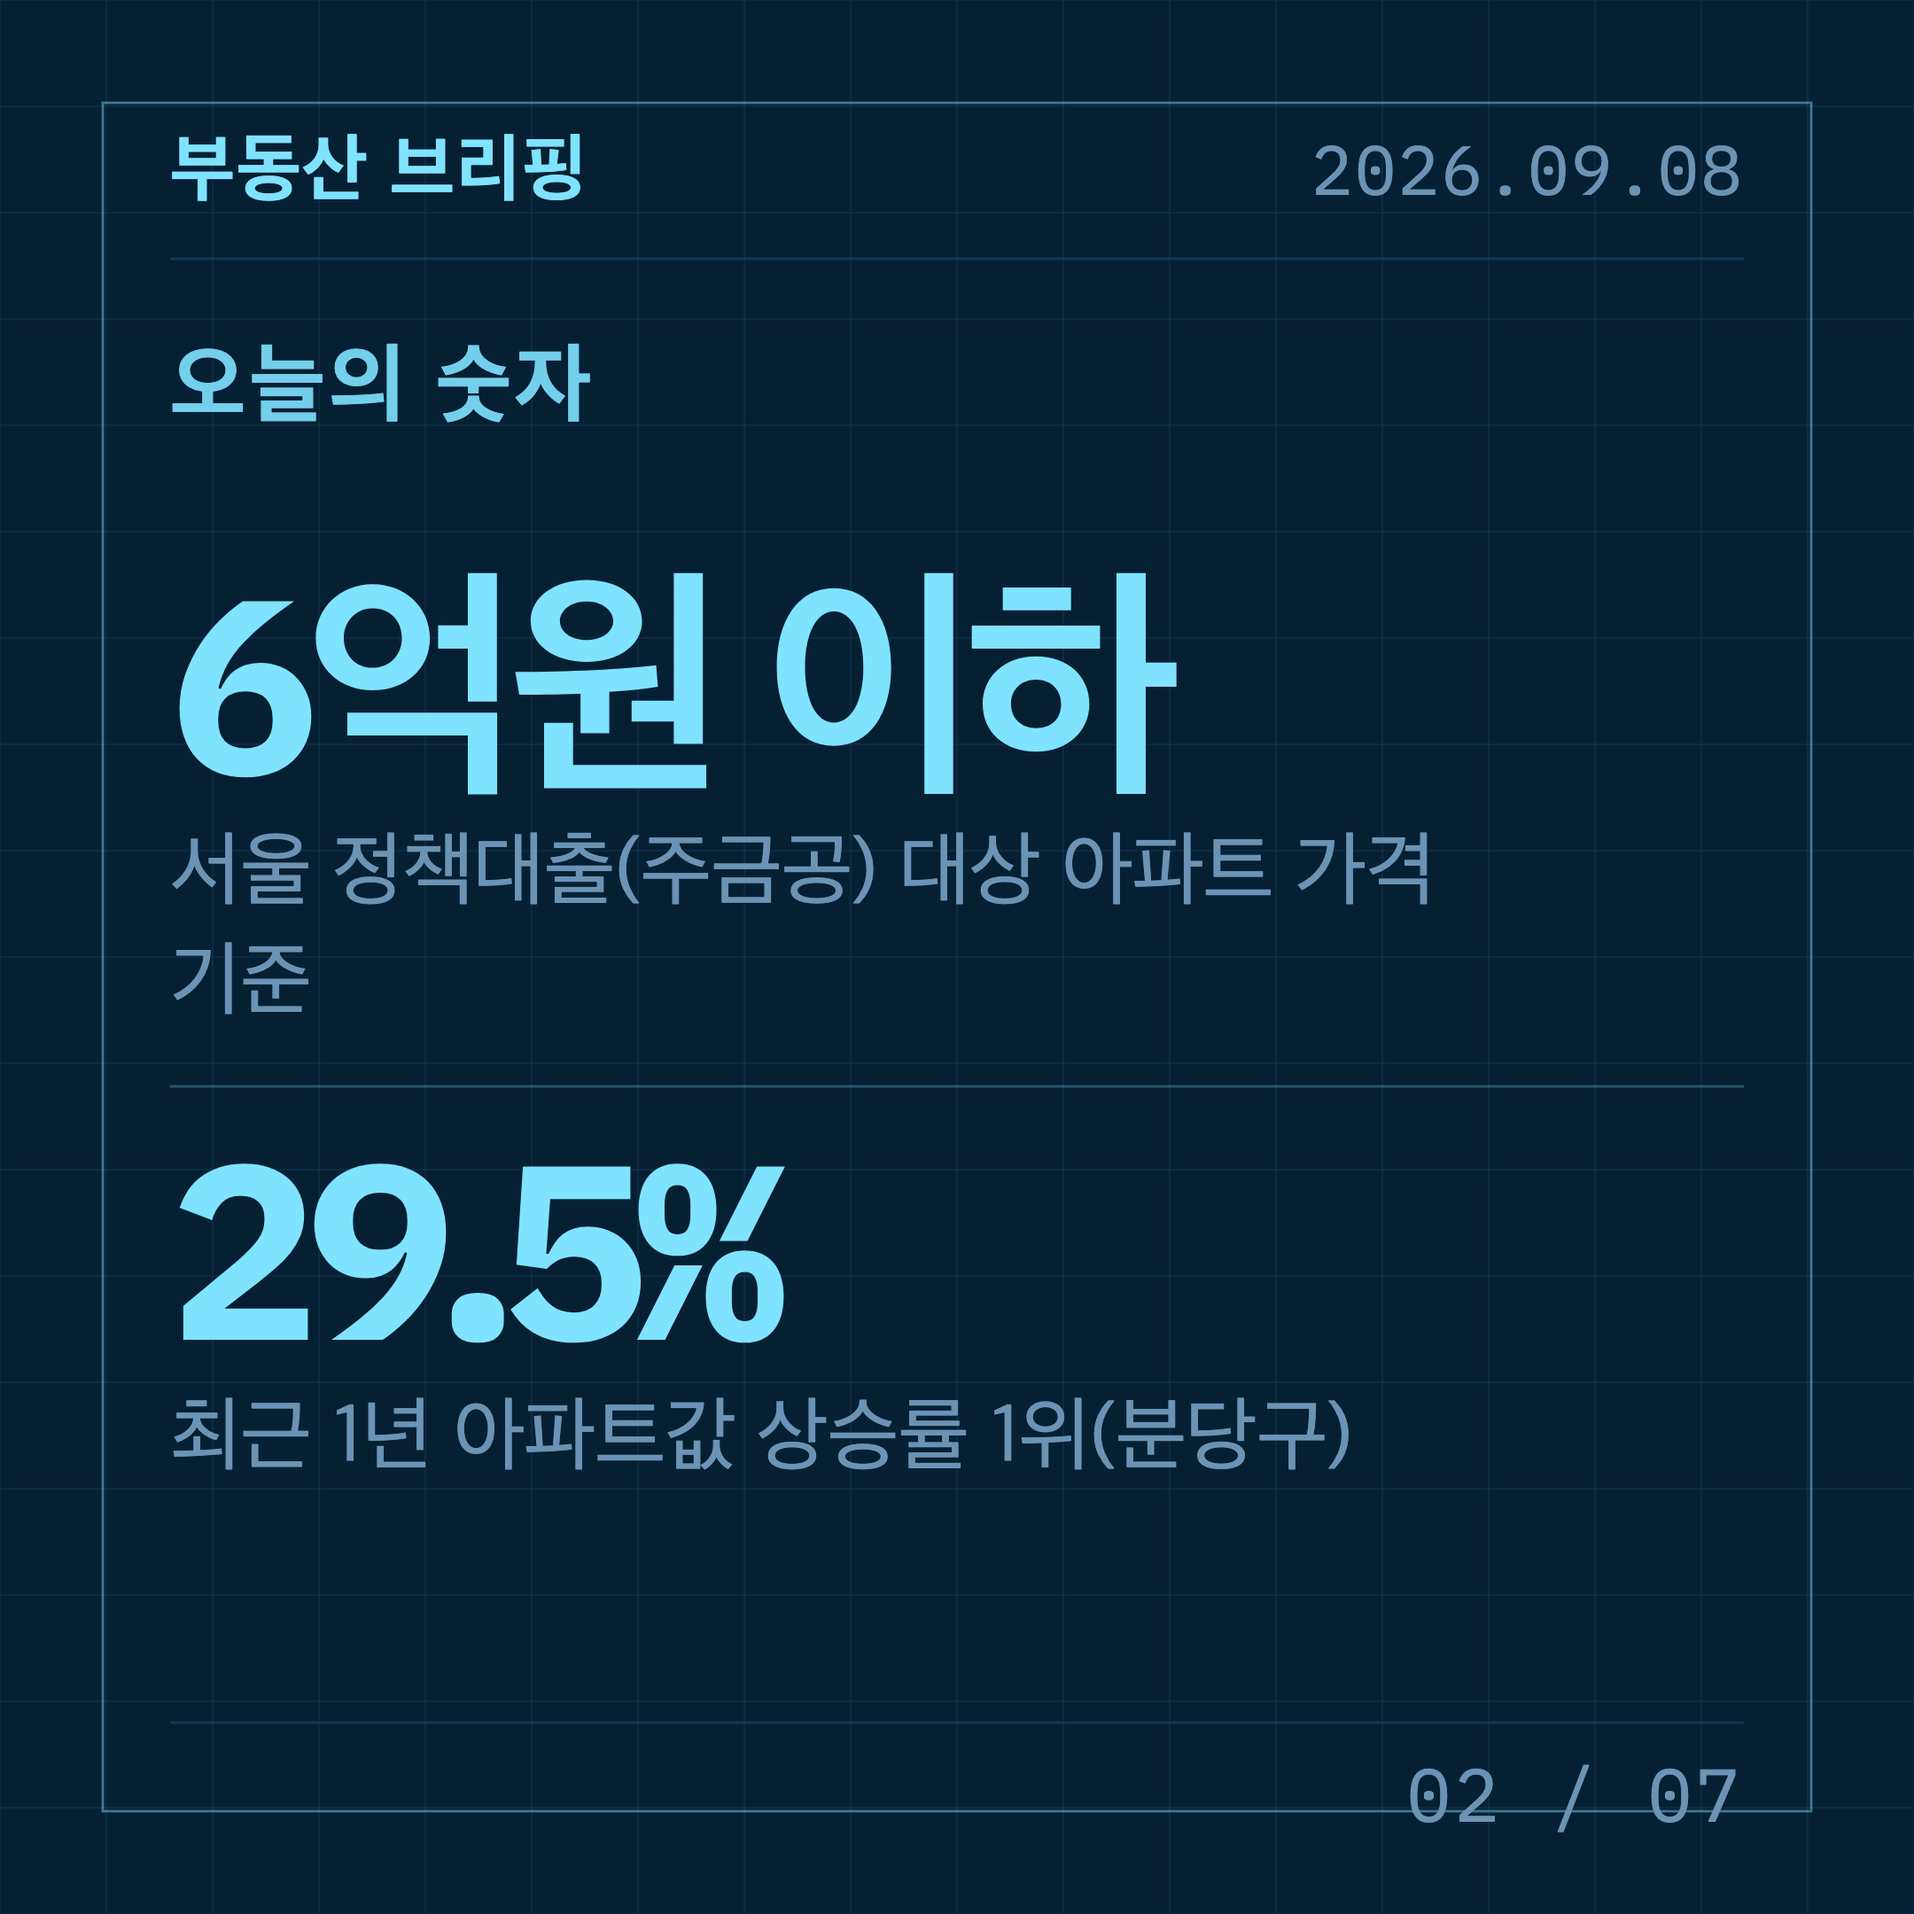
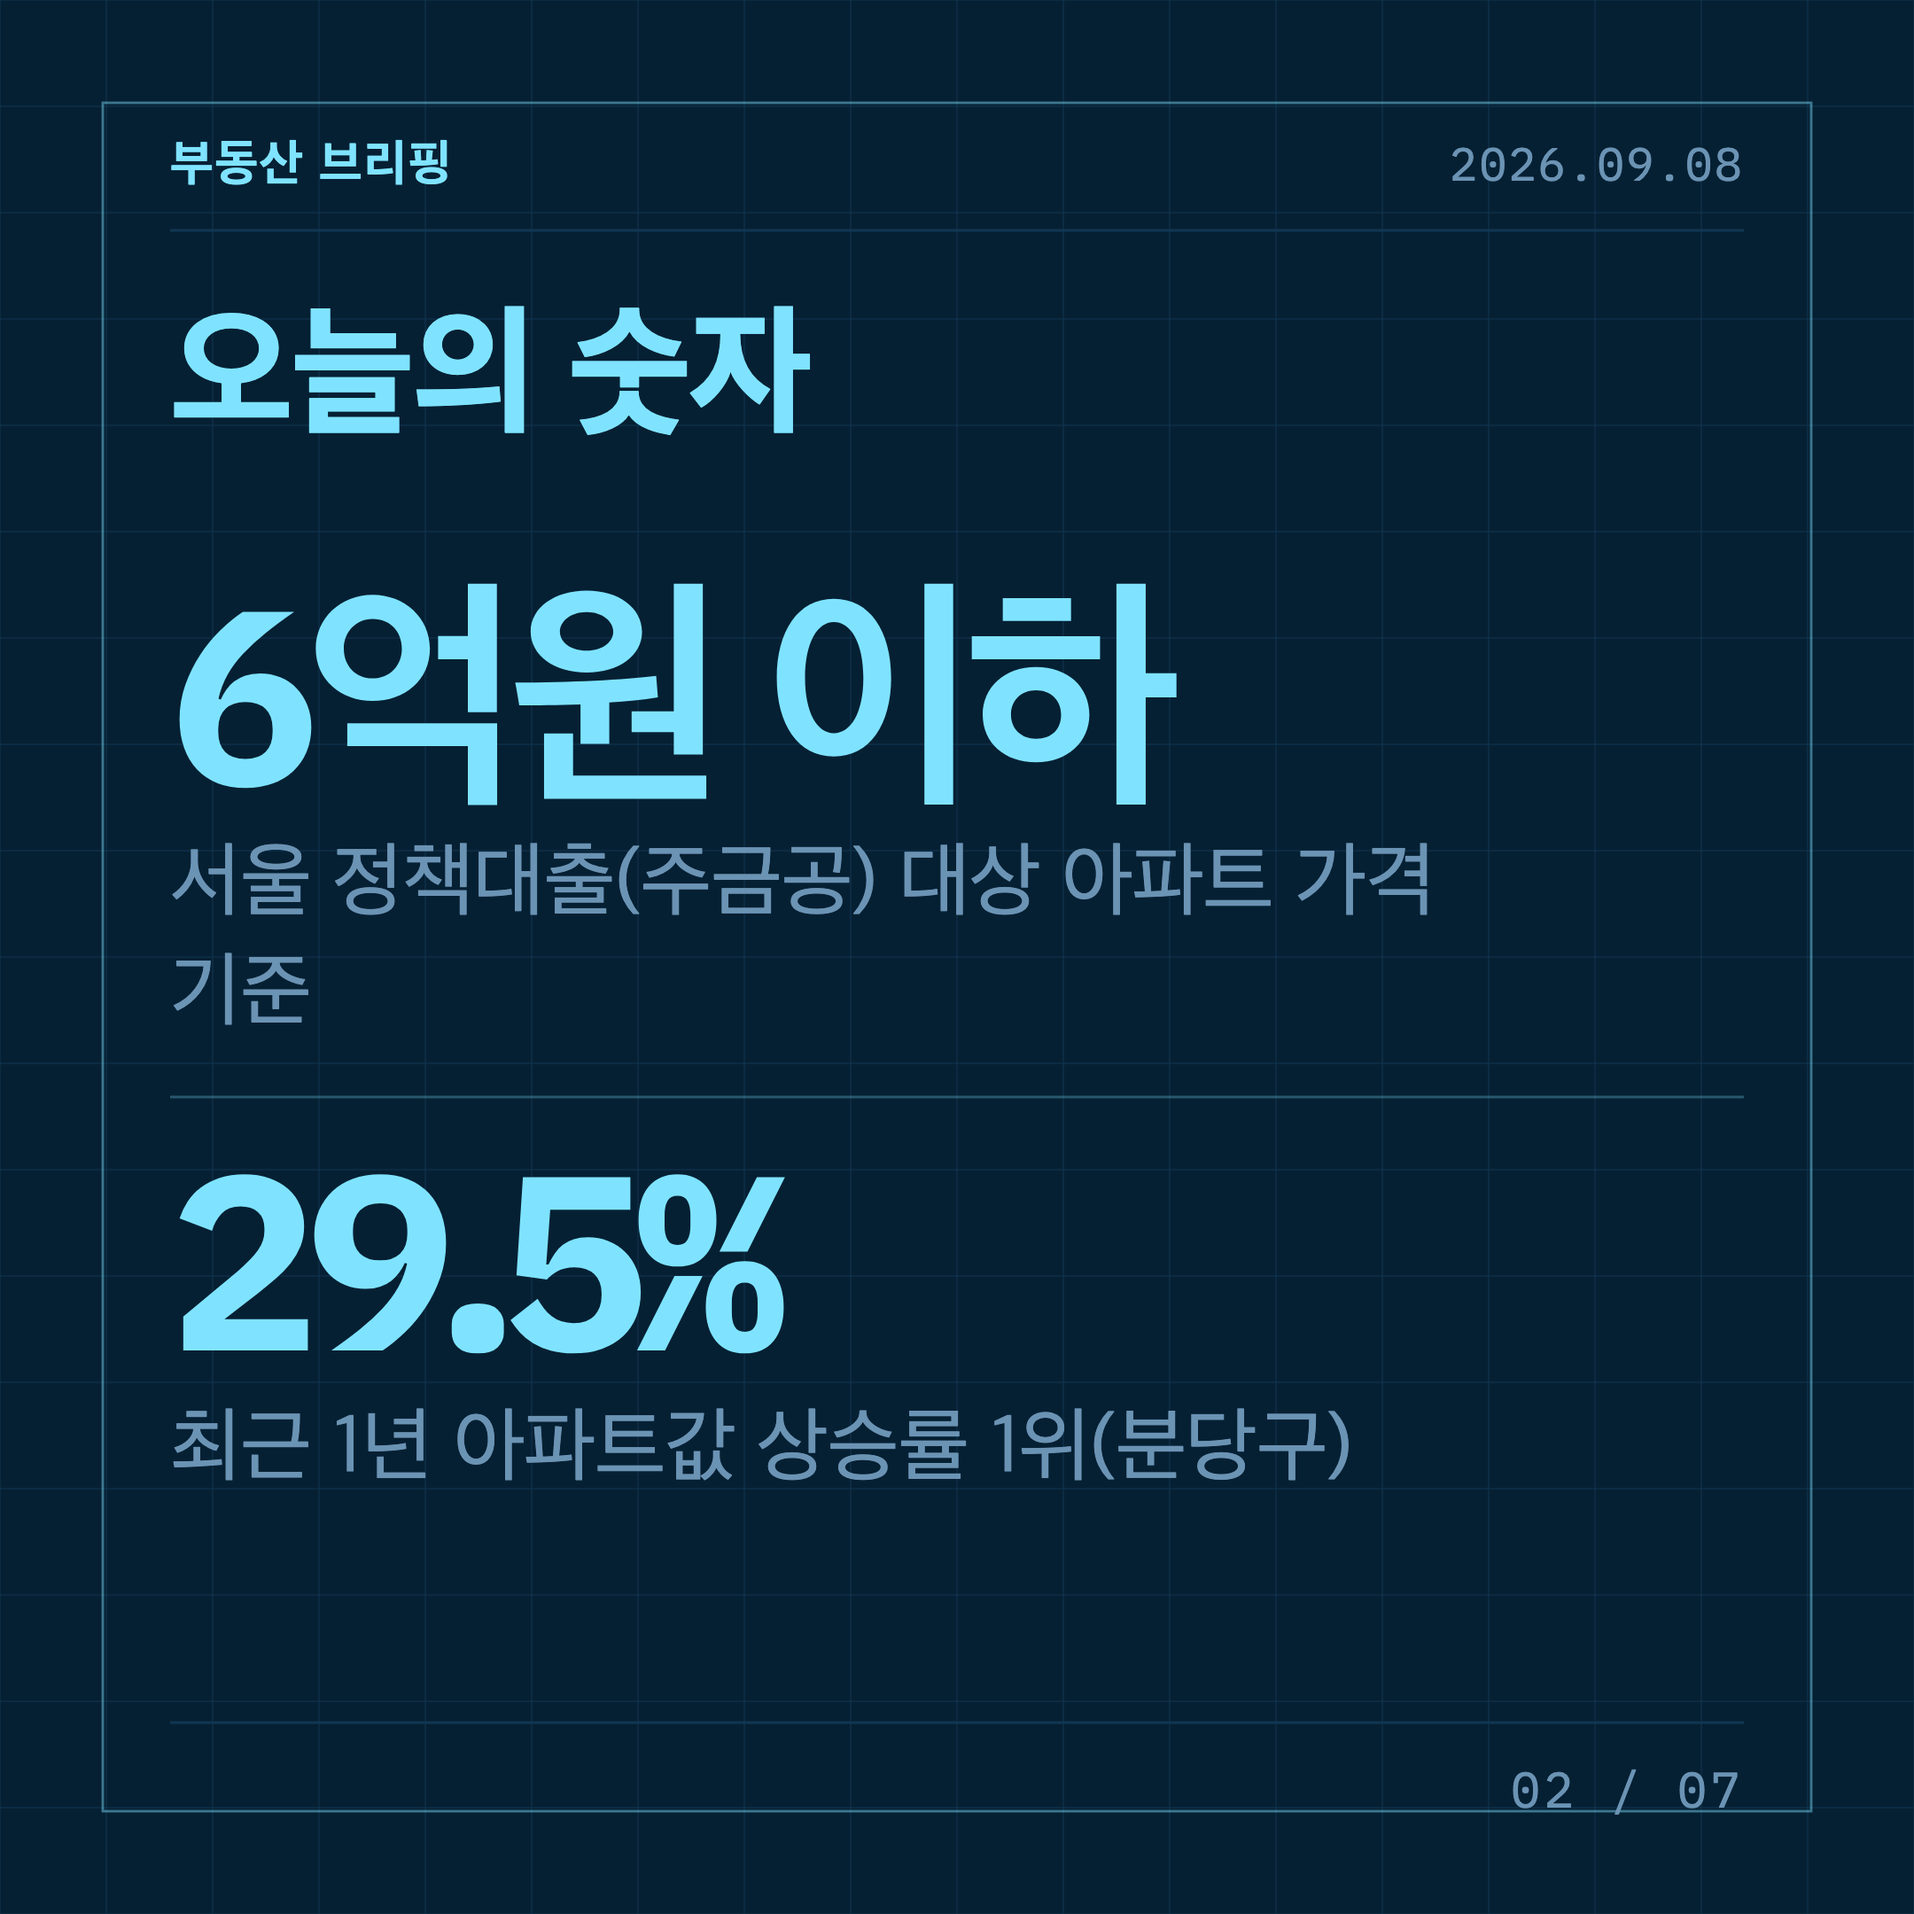
계측 표식은 원래대로 작게, 읽는 글자는 더 크게
사용자가 화면에 상자를 쳐서 지정한 대로입니다.

되돌린 것 (계측 표식은 작아야 표식이다)
* 머리글 42→28, 날짜 39→26, 쪽번호 42→28, 사진 출처 33→22
* 함께 내렸던 구분선(146→130)과 글 시작 자리(194→172)도 되돌렸습니다

키운 것 (실제로 읽는 글자)
* 소제목 '오늘의 숫자'·'내일 볼 것' 49→80 — 표지 제목과 같은 무게로
* 표지 부제 36→44, 이슈 한 줄 요약 39→46
* 목록 항목 50/46/41/35 → 58/54/48/42

**줄 수를 안 늘리면 글씨를 키워도 소용이 없었습니다.** 표지 부제를 44 로 올렸는데
그대로였습니다 — `_sentence_fit` 이 두 줄 안에 넣으려고 도로 36 으로 줄였기
때문입니다. 최대 줄 수를 3 으로 늘리고 나서야 커졌습니다.

시험 233개와 pyflakes 는 깨끗합니다.

diff --git a/rebrief/images.py b/rebrief/images.py
@@ -1345,9 +1345,9 @@ def _card_frame(face: tuple, n: int, total: int, *, date: str = "", channel: str
         # 사진 출처 한 줄. **'본문과 무관' 을 빼지 마세요.** 은마아파트 기사 옆에 아무
         # 아파트 사진이 붙으면 읽는 사람은 그게 은마인 줄 압니다.
         if art.get("credit"):
-            p.append(f'<rect x="0" y="{band-62:.0f}" width="{w}" height="62" '
+            p.append(f'<rect x="0" y="{band-46:.0f}" width="{w}" height="46" '
                      f'fill="#000000" opacity="0.42"/>')
-            p.append(f'<text x="{w-96}" y="{band-20:.0f}" font-size="33" text-anchor="end" '
+            p.append(f'<text x="{w-96}" y="{band-16:.0f}" font-size="22" text-anchor="end" '
                      f'fill="#ffffff" opacity="0.9">{esc(art["credit"])}</text>')
         bottom = h - 100
         meta = []
@@ -1356,24 +1356,24 @@ def _card_frame(face: tuple, n: int, total: int, *, date: str = "", channel: str
         if date:
             meta.append(esc(date.replace("-", ".")))
         if meta:
-            p.append(f'<text x="96" y="{h-52}" font-size="38" fill="{dim}">'
+            p.append(f'<text x="96" y="{h-60}" font-size="25" fill="{dim}">'
                      f'{" · ".join(meta)}</text>')
     else:
-        top, bottom = 194, h - 158
+        top, bottom = 172, h - 152
         p.append(f'<rect x="58" y="58" width="{w-116}" height="{h-116}" fill="none" '
                  f'stroke="{signal}" stroke-width="1.4" opacity="0.45"/>')
         if channel:
-            p.append(f'<text x="96" y="110" font-size="42" font-weight="700" letter-spacing="1" '
+            p.append(f'<text x="96" y="102" font-size="28" font-weight="700" letter-spacing="1" '
                      f'fill="{ink}">{esc(channel)}</text>')
         if date:
-            p.append(f'<text x="{w-96}" y="110" font-size="39" font-family="{MONO}" '
+            p.append(f'<text x="{w-96}" y="102" font-size="26" font-family="{MONO}" '
                      f'letter-spacing="1" text-anchor="end" fill="{dim}">'
                      f'{esc(date.replace("-", "."))}</text>')
-        p.append(f'<line x1="96" y1="146" x2="{w-96}" y2="146" stroke="{rule}" stroke-width="1.5"/>')
+        p.append(f'<line x1="96" y1="130" x2="{w-96}" y2="130" stroke="{rule}" stroke-width="1.5"/>')
         p.append(f'<line x1="96" y1="{h-108}" x2="{w-96}" y2="{h-108}" stroke="{rule}" '
                  f'stroke-width="1.5"/>')
     if total > 1:
-        p.append(f'<text x="{w-96}" y="{h-52}" font-size="42" font-family="{MONO}" letter-spacing="2" '
+        p.append(f'<text x="{w-96}" y="{h-60}" font-size="28" font-family="{MONO}" letter-spacing="2" '
                  f'text-anchor="end" fill="{dim}">{n:02d} / {total:02d}</text>')
     return p, top, bottom
 
@@ -1467,8 +1467,10 @@ def _cover_card(headline: str, sub: str, badge: str, total: int, date: str, chan
     lines, size = _fit(headline, 104 if not art else 80, inner, 4 if not art else 3,
                        floor=62 if not art else 50)
     line_h = size * 1.26
-    sub_lines, sub_size = _sentence_fit(sub, 36, inner - 40, 3 if not art else 2)
-    sub_h = (54 + len(sub_lines) * sub_size * 1.55) if sub_lines else 0
+    # 줄 수를 늘려 주지 않으면 글씨를 키워도 소용이 없습니다 — `_sentence_fit` 이 줄 안에
+    # 넣으려고 도로 줄여 버립니다. 두 줄로 묶어 두었더니 44 로 올려도 36 으로 되돌아왔습니다.
+    sub_lines, sub_size = _sentence_fit(sub, 44, inner - 40, 3)
+    sub_h = (44 + len(sub_lines) * sub_size * 1.55) if sub_lines else 0
     badge_h = 96 if badge else 0
     y = top + max(0, (bottom - top - (line_h * len(lines) + sub_h + badge_h)) / 2)
 
@@ -1476,7 +1478,7 @@ def _cover_card(headline: str, sub: str, badge: str, total: int, date: str, chan
     y += _title_block(p, lines, size, 126, y, ink, signal)
 
     if sub_lines:
-        y += 54
+        y += 44
         for i, line in enumerate(sub_lines):
             p.append(f'<text x="126" y="{y+i*sub_size*1.55:.0f}" font-size="{sub_size:.0f}" '
                      f'fill="{dim}">{esc(line)}</text>')
@@ -1495,9 +1497,9 @@ def _numbers_card(nums: list[dict], n: int, total: int, date: str, channel: str)
     p, top, bottom = _card_frame(CARD_FACES["numbers"], n, total, date=date, channel=channel)
     inner = w - 192
 
-    p.append(f'<text x="96" y="{top+40:.0f}" font-size="49" font-weight="700" letter-spacing="2.5" '
-             f'fill="{ink}" opacity="0.9">오늘의 숫자</text>')
-    head_h = 104
+    p.append(f'<text x="96" y="{top+66:.0f}" font-size="80" font-weight="800" letter-spacing="-1" '
+             f'fill="{ink}">오늘의 숫자</text>')
+    head_h = 132
     inner = w - 192
 
     def measure(cap: float) -> list[tuple]:
@@ -1573,7 +1575,7 @@ def _issue_card(issue: dict, n: int, total: int, date: str, channel: str,
         blocks.append(("number", (value, v_size, lab, lab_size),
                        v_size * 0.82 + 22 + lab_size * 1.35 * len(lab) + 44))
 
-    body, b_size = _fit(str(issue.get("one_liner", "")), 39 if not art else 36, inner, 4)
+    body, b_size = _fit(str(issue.get("one_liner", "")), 46 if not art else 43, inner, 4)
     if body:
         blocks.append(("body", (body, b_size), b_size * 1.55 * len(body) + 34))
 
@@ -1626,18 +1628,18 @@ def _list_card(title: str, items: list[str], slug: str, n: int, total: int,
 
     # 항목이 적은 날은 글씨를 키운다. 같은 크기로 두면 카드가 '덜 만든 것' 처럼 비어 보인다.
     picked = items[:6]
-    base = {1: 50, 2: 46, 3: 41}.get(len(picked), 35)
+    base = {1: 58, 2: 54, 3: 48}.get(len(picked), 42)
     rows = []
     for item in picked:
         lines, size = _fit(item, base, inner, 2)
         rows.append((lines, size, size * 1.5 * len(lines) + 42))
 
-    head_h = 136
+    head_h = 158
     while rows and head_h + sum(r[2] for r in rows) > bottom - top:
         rows.pop()
     y = top + max(0, (bottom - top - head_h - sum(r[2] for r in rows)) / 2)
 
-    p.append(f'<text x="96" y="{y+36:.0f}" font-size="49" font-weight="700" letter-spacing="2.5" '
+    p.append(f'<text x="96" y="{y+62:.0f}" font-size="80" font-weight="800" letter-spacing="-1" '
              f'fill="{signal}">{esc(title)}</text>')
     y += head_h
     for i, (lines, size, height) in enumerate(rows, start=1):

diff --git a/CLAUDE.md b/CLAUDE.md
@@ -492,12 +492,25 @@ Actions 탭에 비활성 안내 띠 없음, cron 문법 정상, 기본 브랜치
   글꼴을 SVG 머리에 넣는데 어떤 글자를 쓸지는 다 그려 봐야 알기 때문입니다.
 * **카드 글꼴은 카드에만 씁니다** (`CARD_FONT`). 블로그 인포그래픽까지 바꾸면 러너에
   프리텐다드가 없어 맥에서 만든 그림과 러너에서 만든 그림이 달라집니다.
-* **글자 크기는 2026-09-08 에 두 번 키웠습니다** (사용자 요청). 먼저 전체를 12~15%
-  (제목 92→104, 큰 숫자 126→140, 본문 34→39), 그다음 **작은 글자만 1.5배**
-  (머리글 28→42, 쪽번호 28→42, 분류 26→39, 수치 설명 31→46, 사진 출처 22→33,
-  소제목 33→49, 목록 번호 26→39). 큰 글자는 그대로 두었습니다.
+* **글자 크기는 2026-09-08 에 몇 번 손봤습니다** (사용자가 화면에 상자를 쳐서 지정).
+  최종은 이렇습니다 — **읽는 글자는 크게, 계측 표식은 작게.**
+
+  | 무엇 | 크기 | 왜 |
+  | --- | --- | --- |
+  | 표지 제목 | 104 (그림 있으면 80) | 화면을 지배한다 |
+  | 소제목(오늘의 숫자·내일 볼 것) | **80** | 표지 제목과 같은 무게로 |
+  | 큰 숫자 | 140 | |
+  | 본문 요약 | 46 (그림 있으면 43), 표지 부제 44 | 실제로 읽는 글 |
+  | 목록 항목 | 58/54/48/42 (항목 수에 따라) | |
+  | 수치 설명·이슈 분류 | 46 / 39 | |
+  | 머리글·날짜·쪽번호·사진 출처 | **28 / 26 / 28 / 22** | 계측 표식이라 작아야 표식이다 |
+
+  머리글을 42 로 키웠다가 되돌렸습니다 — 사용자가 "빨간 상자 안은 원래대로" 로 지정.
   더 키우려면 `_fit` 의 `floor` 도 함께 올려야 합니다 — 안 그러면 긴 제목만 예전
   크기로 줄어들어 카드마다 크기가 들쭉날쭉해집니다.
+* **줄 수를 안 늘리면 글씨를 키워도 소용없습니다.** 표지 부제를 36→44 로 올렸는데도
+  그대로였습니다. `_sentence_fit` 이 두 줄 안에 넣으려고 도로 36 으로 줄였기 때문입니다.
+  최대 줄 수를 3 으로 늘리고 나서야 커졌습니다.
 * **작은 글자를 키우면 자리가 모자랍니다.** 머리글이 커진 만큼 구분선(130→146)과 글
   시작 자리(172→194)를 함께 내려야 합니다. 그리고 '오늘의 숫자' 카드는 이제 수치
   **세 개가 다 들어가지 않는 날이 있습니다** — 그럴 때 `_numbers_card` 는 **줄이지 않고
